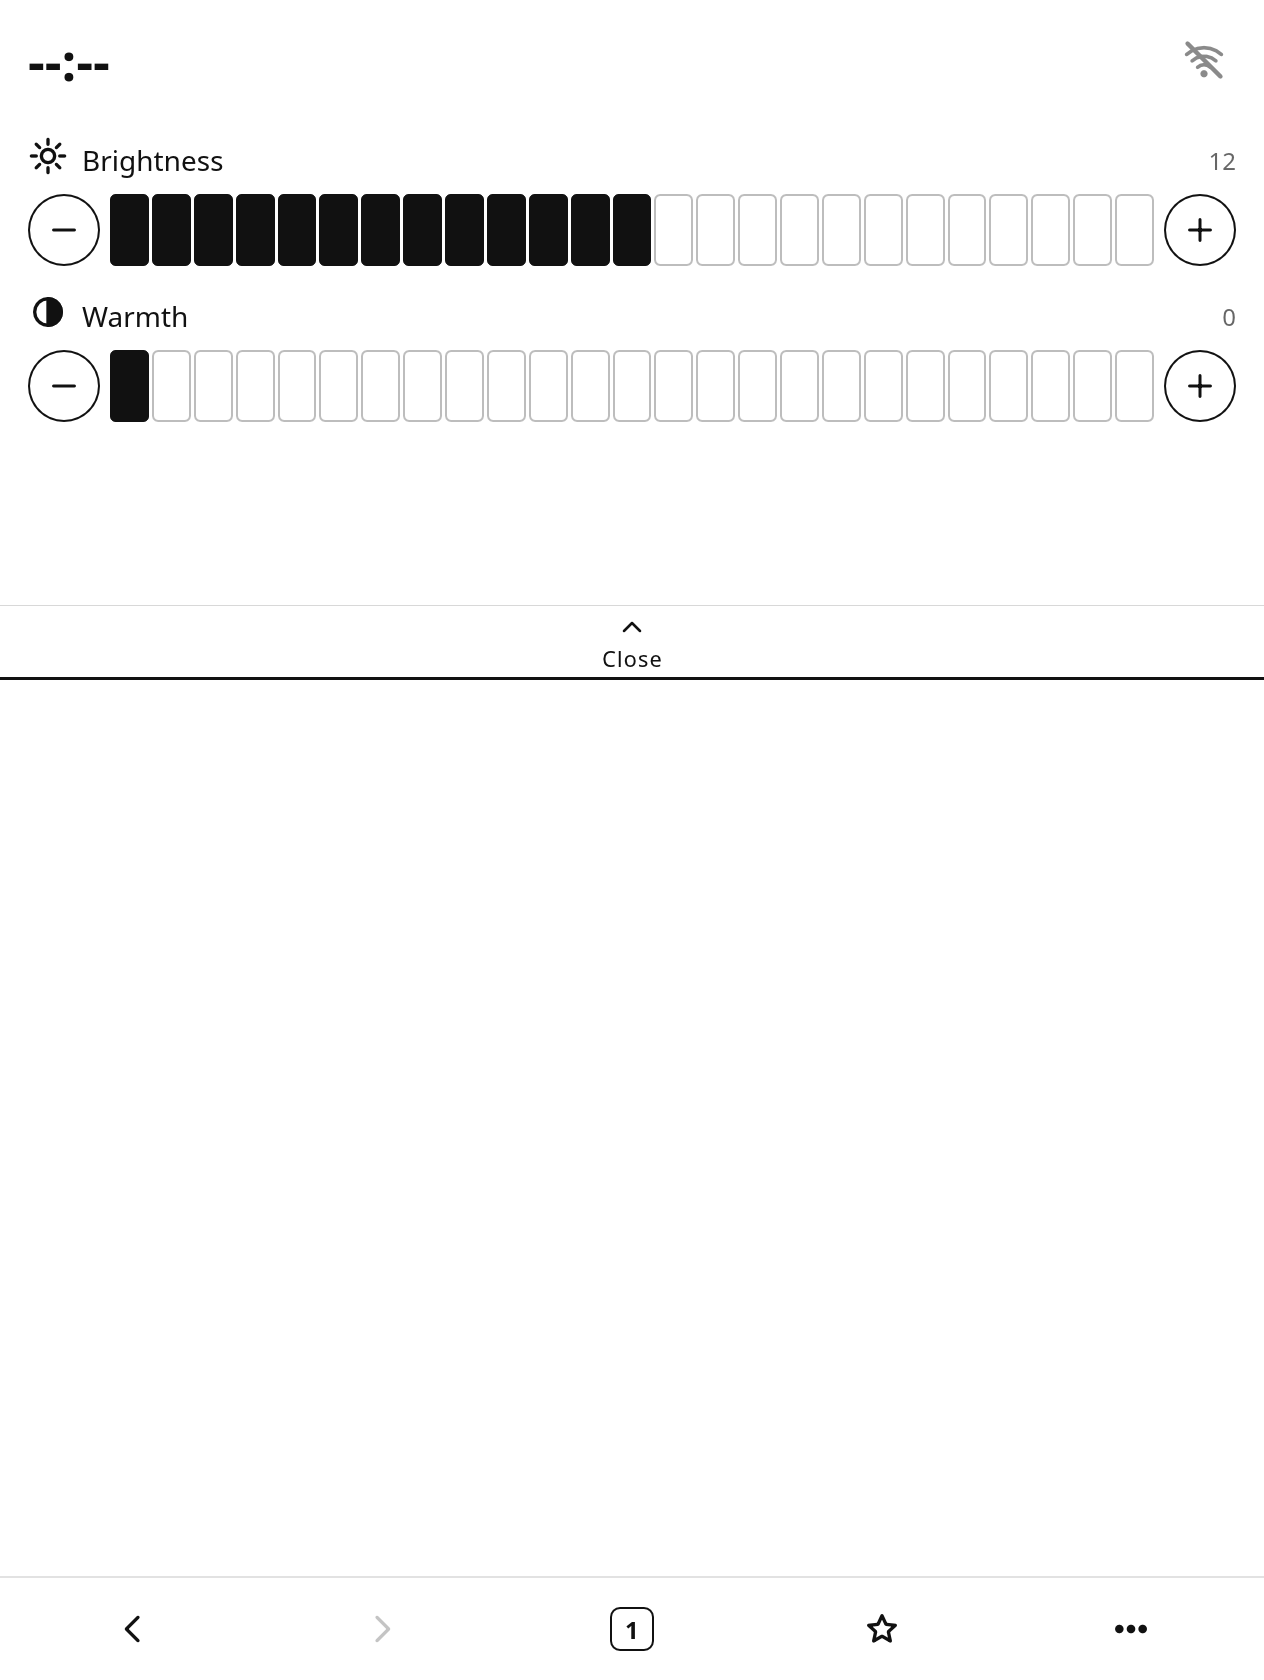
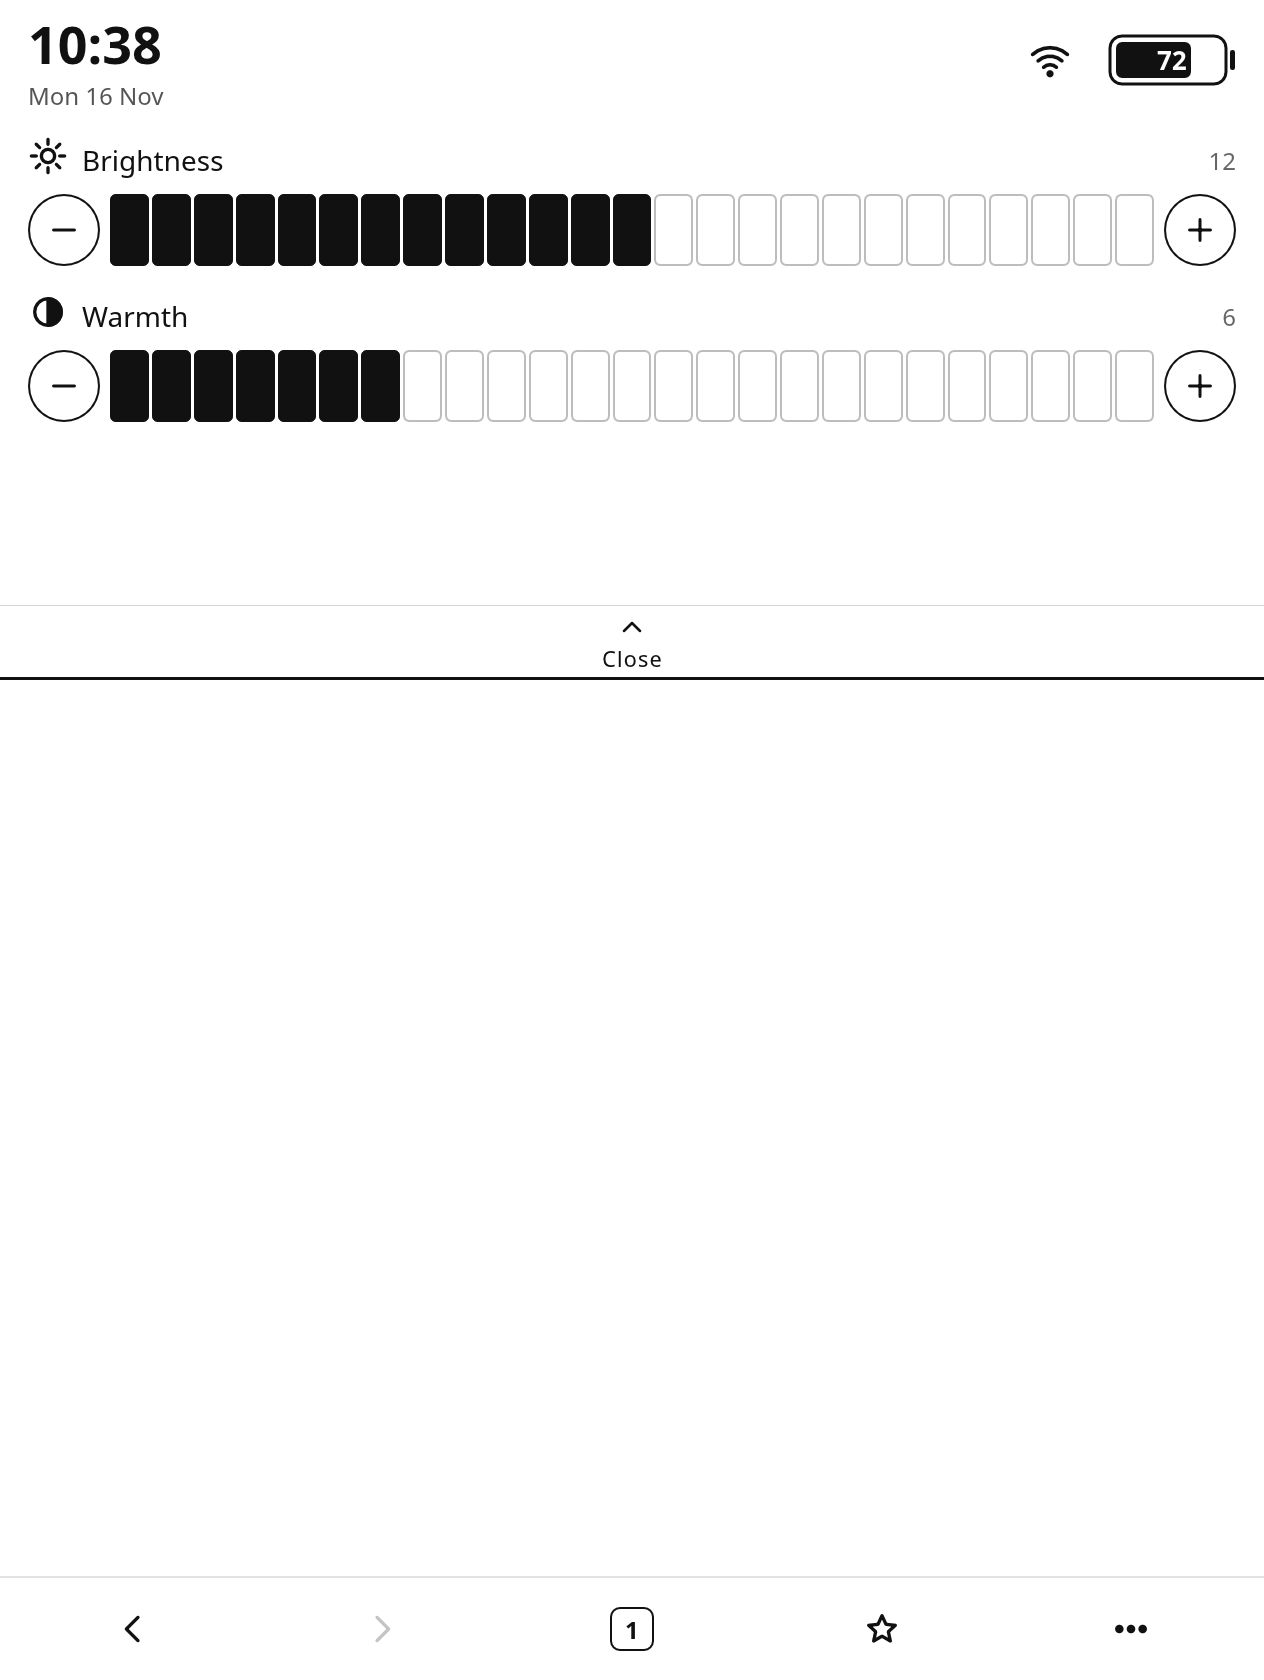
Refresh the quick-settings screenshot; add a demo device to the desktop driver
The README's quick settings image showed no battery or Wi-Fi, because the desktop build has no
device. KB_DEMO_DEVICE=1 gives the desktop driver a demo device (72% battery, Wi-Fi on, a fixed
clock) for screenshots. It changes nothing on the Kindle.

Changed region(s): [[0.0926, 0.1857, 0.3394, 0.2786], [0.8639, 0.0, 0.9873, 0.0619], [0.0309, 0.0, 0.1234, 0.0619]]

diff --git a/crates/kb-desktop/src/main.rs b/crates/kb-desktop/src/main.rs
@@ -13,7 +13,29 @@ use std::{
     time::{Duration, Instant},
 };
 
-use kb_app::{encode_png, Browser, Update};
+use kb_app::{encode_png, Browser, DeviceControl, DeviceStatus, Update};
+
+/// A demo device for screenshots: a battery at 72%, Wi-Fi on, and a fixed clock. Turned on with
+/// `KB_DEMO_DEVICE=1`, so the quick settings panel shows what a Kindle shows. Changes are not kept.
+struct DemoDevice;
+
+impl DeviceControl for DemoDevice {
+    fn status(&mut self) -> DeviceStatus {
+        DeviceStatus {
+            brightness: 12,
+            warmth: 6,
+            battery: Some(72),
+            charging: false,
+            wifi_on: true,
+            wifi_state: "connected".into(),
+            clock: "10:38".into(),
+            date: "Mon 16 Nov".into(),
+        }
+    }
+    fn set_brightness(&mut self, _level: u32) {}
+    fn set_warmth(&mut self, _level: u32) {}
+    fn set_wifi(&mut self, _on: bool) {}
+}
 
 const W: u32 = 1264;
 const H: u32 = 1680;
@@ -21,6 +43,9 @@ const H: u32 = 1680;
 fn main() -> io::Result<()> {
     let out = std::env::var("KB_OUT").unwrap_or_else(|_| "out.png".into());
     let mut b = Browser::new(W, H);
+    if std::env::var_os("KB_DEMO_DEVICE").is_some() {
+        b.set_device(Box::new(DemoDevice));
+    }
     if std::env::var("KB_PROGRESS").is_ok() {
         // Print the progress the device draws under the address bar (throttled).
         let mut last = Instant::now() - Duration::from_secs(1);

diff --git a/README.md b/README.md
@@ -39,7 +39,7 @@ rendering server while you browse.
 </table>
 
 <sub>Screenshots are from the desktop build of the same engine. The quick settings preview shows
-placeholder values, not a real battery.</sub>
+demo values (a 72% battery and a fixed clock), not a real device.</sub>
 
 ## Why this exists
 
